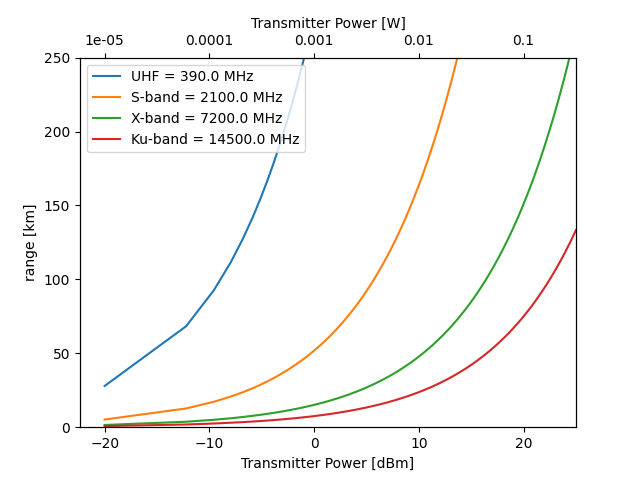
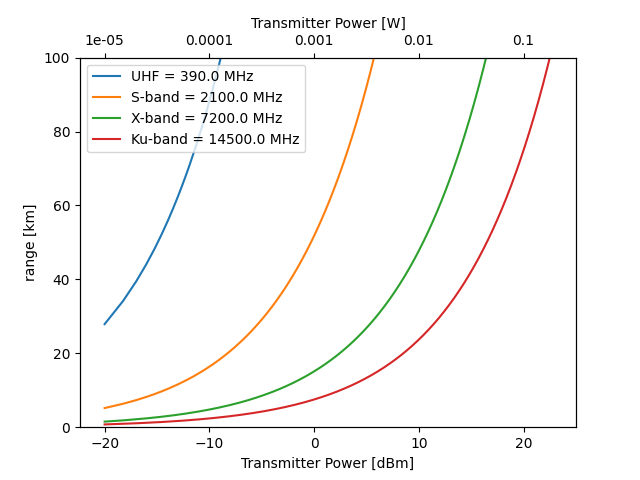
Small changes to scanning program

diff --git a/DesignTools/Scanning.py b/DesignTools/Scanning.py
@@ -18,27 +18,33 @@ def res_HD():
     ratio = rx_hor / rx_ver
     return (rx_hor, rx_ver, ratio)
 
-#rx_hor,rx_ver,ratio = res_8k()
-h     = 100 #m
-AFOV_h = np.deg2rad(25) #rad (input deg)
-AFOV_v = np.deg2rad(12.5) #rad (input deg)
-v     = 20  #m/s
+rx_hor,rx_ver,ratio = res_8k()
+h     = 50 #m
+AFOV_h = np.deg2rad(12.5) #rad (input deg)
+AFOV_v = AFOV_h/ratio #rad (input deg)
+v     = 15  #m/s
+fps = 300 #fps
+t_exp = 1/12000 #exposure time [s]
 
-def scanning(h,v,AFOV_h,AFOV_v):
+def scanning(h,v,AFOV_h,AFOV_v,t_exp):
     rx_hor, rx_ver, ratio = res_8k()
     FOV_h = 2* h * np.tan(AFOV_h/2)  #horizontal scan path width
     FOV_v = 2* h * np.tan(AFOV_v/2) #vertical scan path width
 
-    scan_lin = int(np.ceil(1000/FOV_h)) #scan lines needed to cover area
-    scan_time = 1000*scan_lin /v  #time needed to scan 1km^2 area [s]
+    scan_lin = int(np.ceil(100/FOV_h)) #scan lines needed to cover area
+    scan_time = 100*scan_lin /v  #time needed to scan 1km^2 area [s]
 
     res_h = FOV_h/rx_hor*1000 #spatial res of image [mm]
     res_v = FOV_v/rx_ver*1000
-    return(FOV_h,FOV_v,scan_lin,scan_time,res_h,res_v, h, v)
+    blur_V = v*t_exp*1000 #blur in [mm]
+    res = max(res_h,res_v,blur_V)
+    return(FOV_h,FOV_v,scan_lin,scan_time,res, h, v)
 
-FOV_h,FOV_v,scan_lin,scan_time,res_h,res_v,h,v = scanning(h,v,AFOV_h,AFOV_v)
+FOV_h,FOV_v,scan_lin,scan_time,res,h,v = scanning(h,v,AFOV_h,AFOV_v,t_exp)
 
-#print(scanning(h,v,AFOV_h,AFOV_v))
+print(scanning(h,v,AFOV_h,AFOV_v,t_exp))
+
+
 
 
 def LoS(h,d):
@@ -55,4 +61,4 @@ def LoS(h,d):
     dy = y_gs - y_d
     return theta, x_d, y_d, x_gs, y_gs
 
-print(LoS(100,20))
+

diff --git a/DesignTools/Link budget.py b/DesignTools/Link budget.py
@@ -41,7 +41,7 @@ C_N = Pt*Gt*(lambd/(4*np.pi*R*1000))**2*(Gr/Ts)*1/Kb
 #print(range)
 
 #P_lst = np.arange(1*10**(-5), 0.1, 1*10**(-5))
-P_lst = np.linspace(1e-5, 0.5, 10000)
+P_lst = np.linspace(1e-5, 0.5, 100000)
 dBm_lst = 10*np.log10(1000*P_lst)
 C_N_P = P_lst*Gt*(lambd/(4*np.pi*R*1000))**2*1/(10**(La/10))*(Gr/Ts)*1/Kb
 plt.plot(P_lst, C_N_P)
@@ -81,7 +81,7 @@ for i in range(len(wl_lst)):
 for i in range(len(wl_lst)): ax.plot(dBm_lst, R_array[i,:], label=f"{f_band[i]} = {f_lst[i]/10**6} MHz")
 #plt.plot(dBm_lst,R*np.ones(len(dBm_lst)), label='Range = 20km')
 #plt.title('Range as function of Power. C/N0='+str(round(CN_min,-5)))
-plt.ylim(0,250)
+plt.ylim(0,100)
 plt.xlim(right=25)
 #plt.yticks(np.arange(0,101,10))
 plt.xlabel('Transmitter Power [dBm]')
@@ -100,5 +100,5 @@ ax2.set_xticks(dbm_ticks)
 ax2.set_xticklabels([f'{w:.3g}' for w in watt_ticks])
 ax2.set_xlim(ax.get_xlim())
 
-plt.savefig('Figures/P_R_2')
+#plt.savefig('Figures/P_R_2')
 plt.show()

diff --git a/DesignTools/Data_budget.py b/DesignTools/Data_budget.py
@@ -7,7 +7,7 @@ h     = 100 #m
 AFOV_h = np.deg2rad(25) #rad (input deg)
 AFOV_v = np.deg2rad(12.5) #rad (input deg)
 v     = 20  #m/s
-
+t_exp = 1/12000
 def data_scan():
     h = 100  # m
     AFOV_h = np.deg2rad(25)  # rad (input deg)
@@ -15,7 +15,7 @@ def data_scan():
     v = 20  # m/s
     rx_hor, rx_ver, ratio = res_8k()
 
-    FOV_h, FOV_v, scan_lin, scan_time, res_h, res_v, h, v = scanning(h, v, AFOV_h, AFOV_v)
+    FOV_h, FOV_v, scan_lin, scan_time, res, h, v = scanning(h, v, AFOV_h, AFOV_v,t_exp)
 
     px = rx_hor*rx_ver #pixels per image
     b_px = 24   #bit/pixel
